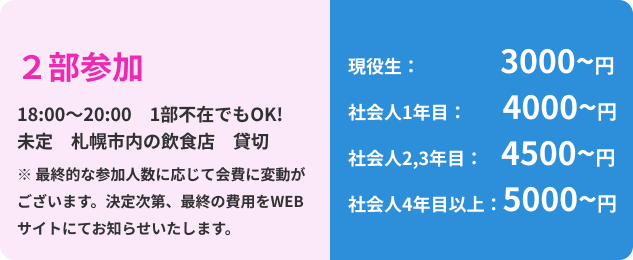
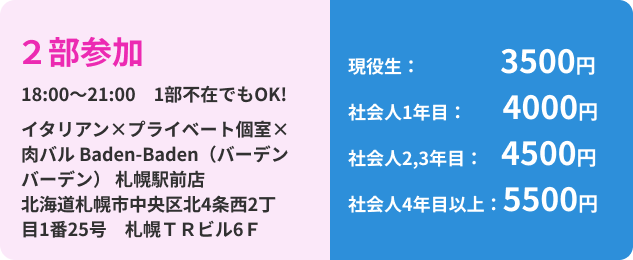
update

diff --git a/js/jquery.layerBoard.js b/js/jquery.layerBoard.js
@@ -1,0 +1,143 @@
+/*
+ * ===================================================================
+ *	jquery.layerBoard.js
+ *	@auther:kiyoty
+ *	@URI:http://www.idea-clippin.com
+ *	@create:2012/12/30
+ * 	@License:MIT License(X11 License、X License)
+ * ===================================================================
+ *	
+ * -------------------------------------------------------------------
+ *	opition
+ * -------------------------------------------------------------------
+ * delayTime		//表示までの待ち時間
+ * fadeTime			//表示のフェード時間
+ * alpha				//レイヤーの透明度
+ * limitMin			//何分経過後に再度表示するか
+ * easing				//イージング
+ * limitCookie	//cookie保存期間
+ *	
+ * -------------------------------------------------------------------
+ *	Example
+ *	$('#layer_board_area').layerBoard({alpha:0.5});
+ * -------------------------------------------------------------------
+*/
+
+(function($) {
+	
+  $.fn.layerBoard = function(option) {
+  	
+		var elements = this;
+		
+		elements.each(function(){
+			
+			option = $.extend({
+				delayTime: 200,						//表示までの待ち時間
+				fadeTime : 500,						//表示のフェード時間
+											//レイヤーの透明度
+				
+				limitMin : 1,							//何分経過後に再度表示するか
+				
+				easing: 'linear',					//イージング
+				
+				limitCookie : 1	 					//cookie保存期間
+			}, option);
+							
+				
+			var limitSec = option.limitMin * 60; //秒数に変換
+						
+						
+			if ($.cookie('layerBoardTime') == null) {
+				
+				/*----------------------------------------
+					cookieがない場合
+				 ----------------------------------------*/
+				LayerBoardFunc ();
+				
+				//cookieに現在の時間をセット
+				var start = new Date();
+				$.cookie('layerBoardTime', start.getTime(), { expires: option.limitCookie,path: '/' });
+				
+				
+			} else {
+				
+				/*----------------------------------------
+					cookieがある場合
+				 ----------------------------------------*/
+				
+				//現在のミリ秒を取得し、秒数に変換
+				var now = new Date();
+				secDiff = now.getTime() - $.cookie('layerBoardTime');
+				secTime = Math.floor( secDiff / 1000);
+				
+				
+				//指定時間を経過していた場合は、LayerBoardを表示
+				//cookieを削除後、再度cookieに現在のミリ秒をセット
+				if (secTime >= limitSec) {
+					
+					LayerBoardFunc ();
+					
+					$.cookie('layerBoardTime', null, { expires:-1,path: '/' });
+					
+					var start = new Date();
+					$.cookie('layerBoardTime', start.getTime(), { expires:option.limitCookie,path: '/' });
+					
+				}
+				
+			}
+			
+			
+			/*----------------------------------------
+				表示処理
+			 ----------------------------------------*/
+			function LayerBoardFunc () {
+				
+				
+				$('.layer_board_bg', elements).show().animate({opacity: 0},0).delay(option.delayTime).animate({opacity: option.alpha},option.fadeTime,function(){
+					$('.layer_board', elements).fadeIn(option.fadeTime);																																					
+				})
+					
+			}
+			
+			
+			/*----------------------------------------
+				非表示処理
+			 ----------------------------------------*/
+			$('.layer_board_bg', elements).click(function() {
+				
+				$('.layer_board', elements).fadeOut(option.fadeTime);
+				$(this).fadeOut(option.fadeTime);
+				
+				
+			});
+			
+			
+			//closeボタンの場合
+			$('.btn_close', elements).click(function() {
+				
+				$('.layer_board', elements).fadeOut(option.fadeTime);
+				$('.layer_board_bg', elements).fadeOut(option.fadeTime);
+				
+				
+			});
+
+			
+			
+			/*----------------------------------------
+				ボタンによる表示処理
+			 ----------------------------------------*/
+			$('.layer_board_btn').click(function() {
+				
+				$('.layer_board_bg', elements).show().animate({opacity: 0},0).delay(option.delayTime).animate({opacity: option.alpha},option.fadeTime,function(){
+					$('.layer_board', elements).fadeIn(option.fadeTime);																																					
+				});
+				
+			});
+	
+		});
+		
+		return this;		
+		
+	};
+	
+})( jQuery );

diff --git a/index.html b/index.html
@@ -201,6 +201,8 @@
           <img src="./img/second_OB.png" alt="２次会参加費用">
         </div>
 
+        <iframe class="map" src="https://www.google.com/maps/embed?pb=!1m18!1m12!1m3!1d1457.3990551925817!2d141.35226743057348!3d43.06671351217431!2m3!1f0!2f0!3f0!3m2!1i1024!2i768!4f13.1!3m3!1m2!1s0x5f0b2974544bf1e9%3A0x227ca59809d119cd!2z44OQ44O844OH44Oz44OQ44O844OH44OzIOacreW5jOmnheWJjeW6lw!5e0!3m2!1sja!2sjp!4v1730162249026!5m2!1sja!2sjp" allowfullscreen loading="lazy" referrerpolicy="no-referrer-when-downgrade"></iframe>
+
       </section>
 
       <section id="access" class="access">
@@ -280,6 +282,19 @@
 
       </section>
 
+      <div id="layer_board_area">
+        <div class="layer_board_bg"></div>
+          <div class="layer_board">
+            <p class="ss">2次会の場所が決定しました！</p>
+            <p>
+              イタリアン×プライベート個室×肉バル<br>
+              Baden-Baden（バーデンバーデン） 札幌駅前店<br>
+              北海道札幌市中央区北4条西2丁目1番25号　札幌ＴＲビル6Ｆ
+            </p>
+          <a href="#" class="btn_close">閉じる</a>
+        </div>
+      </div>
+
     </main>
 
 
@@ -302,7 +317,9 @@
     </footer>
   </div>
 
-  <script src="https://code.jquery.com/jquery-3.7.1.min.js" integrity="sha256-/JqT3SQfawRcv/BIHPThkBvs0OEvtFFmqPF/lYI/Cxo=" crossorigin="anonymous"></script>
+  <script src="https://ajax.googleapis.com/ajax/libs/jquery/3.3.1/jquery.min.js"></script>
+  <script src="https://cdnjs.cloudflare.com/ajax/libs/jquery-cookie/1.4.1/jquery.cookie.min.js"></script>
+  <script src="js/jquery.layerBoard.js"></script>
   <script src="./js/script.js"></script>
 </body>
 </html>

diff --git a/js/script.js b/js/script.js
@@ -32,17 +32,15 @@ $(".openbtn").click(function () {//ボタンがクリックされたら
 	});
 });
 
-//フェードイン
-let fadeInTarget = document.querySelectorAll('.fade-in');
-window.addEventListener('scroll', () => {
-  for (let i = 0; i < fadeInTarget.length; i++) {
-    const rect = fadeInTarget[i].getBoundingClientRect().top;
-    const scroll = document.documentElement.scrollTop;
-    const offset = rect + scroll;
-    const windowHeight = window.innerHeight; // 現在のブラウザの高さ
-    if (scroll > offset - windowHeight + 150) {
-      fadeInTarget[i].classList.add('scroll-in');
-    }
-  }
-});
+//ロード時のモーダル表示処理
+$(function(){
+	$('#layer_board_area').layerBoard({
+	delayTime: 100, //表示までの待ち時間
+	fadeTime : 300, //表示開始から表示しきるまでの時間
+	limitMin : 0, //何分経過後に再度表示するか/分（0で再表示なし）
+	easing: 'linear', //イージング
+	limitCookie : 0 , //cookie保存期間/日（0で開くたび毎回表示される）
+	countCookie : 1000 //何回目のアクセスまで適用するか(cookie保存期間でリセット)
+	});
+	})
 

diff --git a/css/style.css b/css/style.css
@@ -448,6 +448,56 @@ span {
   margin: 4vw auto;
 }
 
+/* modal */
+.layer_board_bg,
+.layer_board {
+  position: absolute;
+}
+
+.layer_board_bg {
+  position: fixed;
+  width: 100%;
+  height: 100%;
+  z-index: 10000000;
+  top: 0;
+  left: 0;
+  display: none;
+  cursor: pointer;
+  background: #fff;
+}
+
+.layer_board {
+  display: none;
+  position: fixed;
+  top: 50%;
+  left: 50%;
+  transform: translate(-50%,-50%);
+  background: #fff;
+  text-align: center;
+  z-index: 2000;
+  padding: 50px;
+}
+
+.layer_board p {
+  margin-bottom: 50px;
+}
+
+.btn_close {
+  display: block;
+  text-decoration: none;
+  background: #000;
+  color: #fff;
+  text-align: center;
+  padding: 20px 40px;
+  width: 200px;
+  margin: 0 auto;
+}
+
+.ss {
+  font-size: 30px;
+  font-weight: bold;
+}
+
 
 
 
